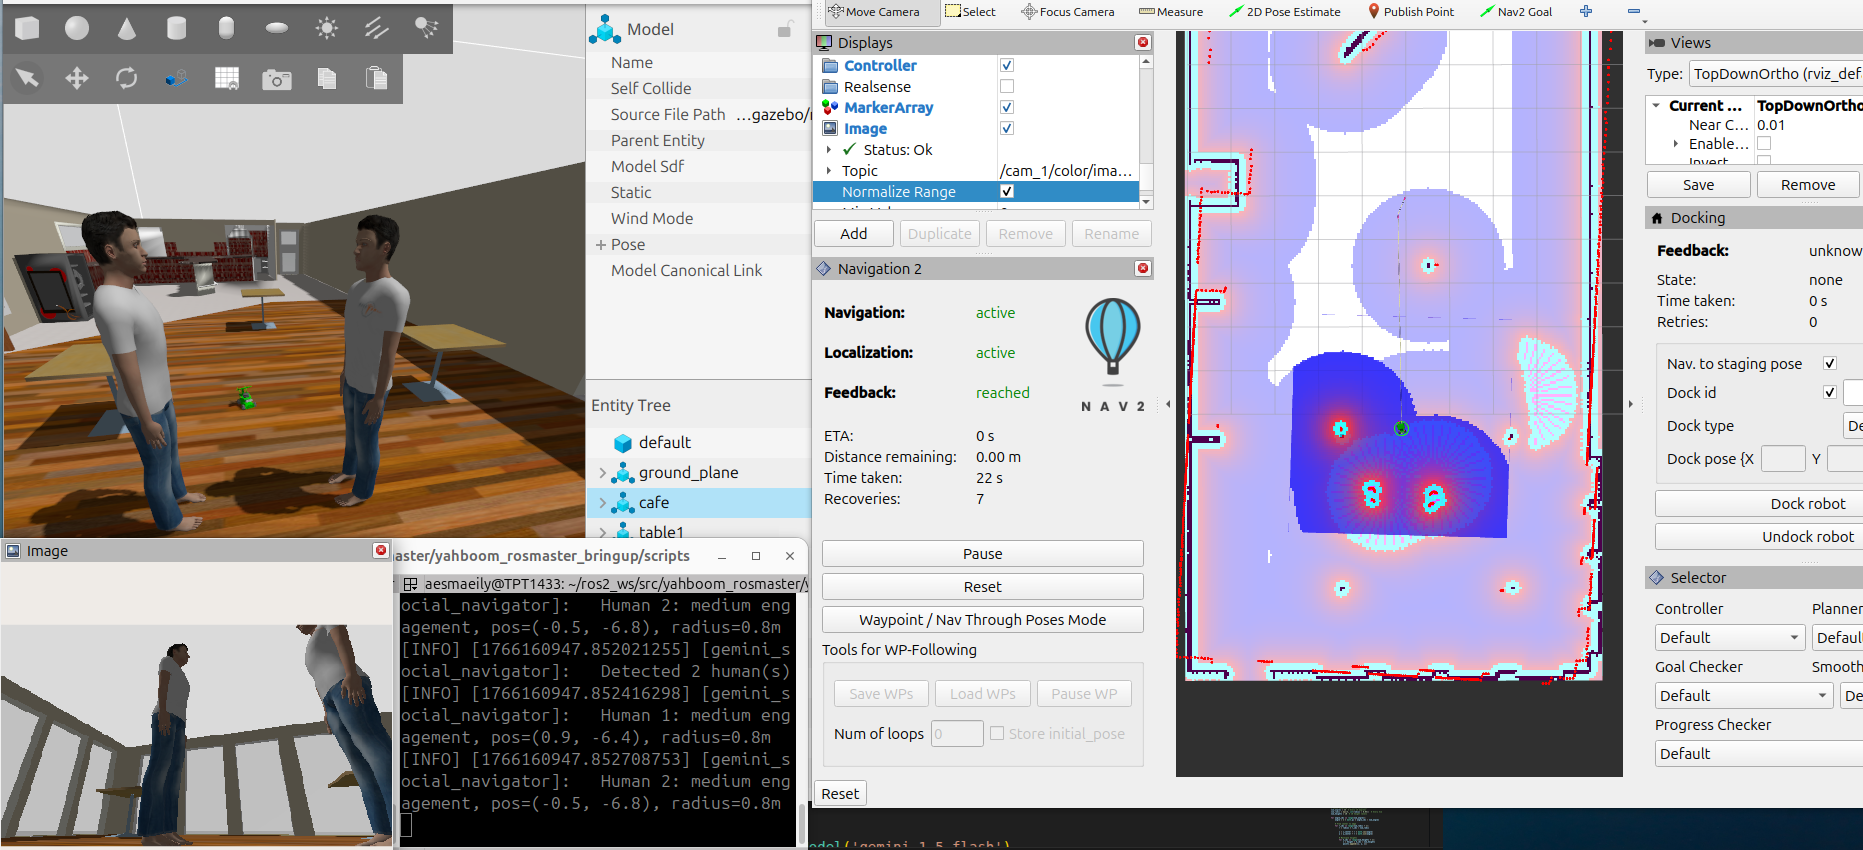
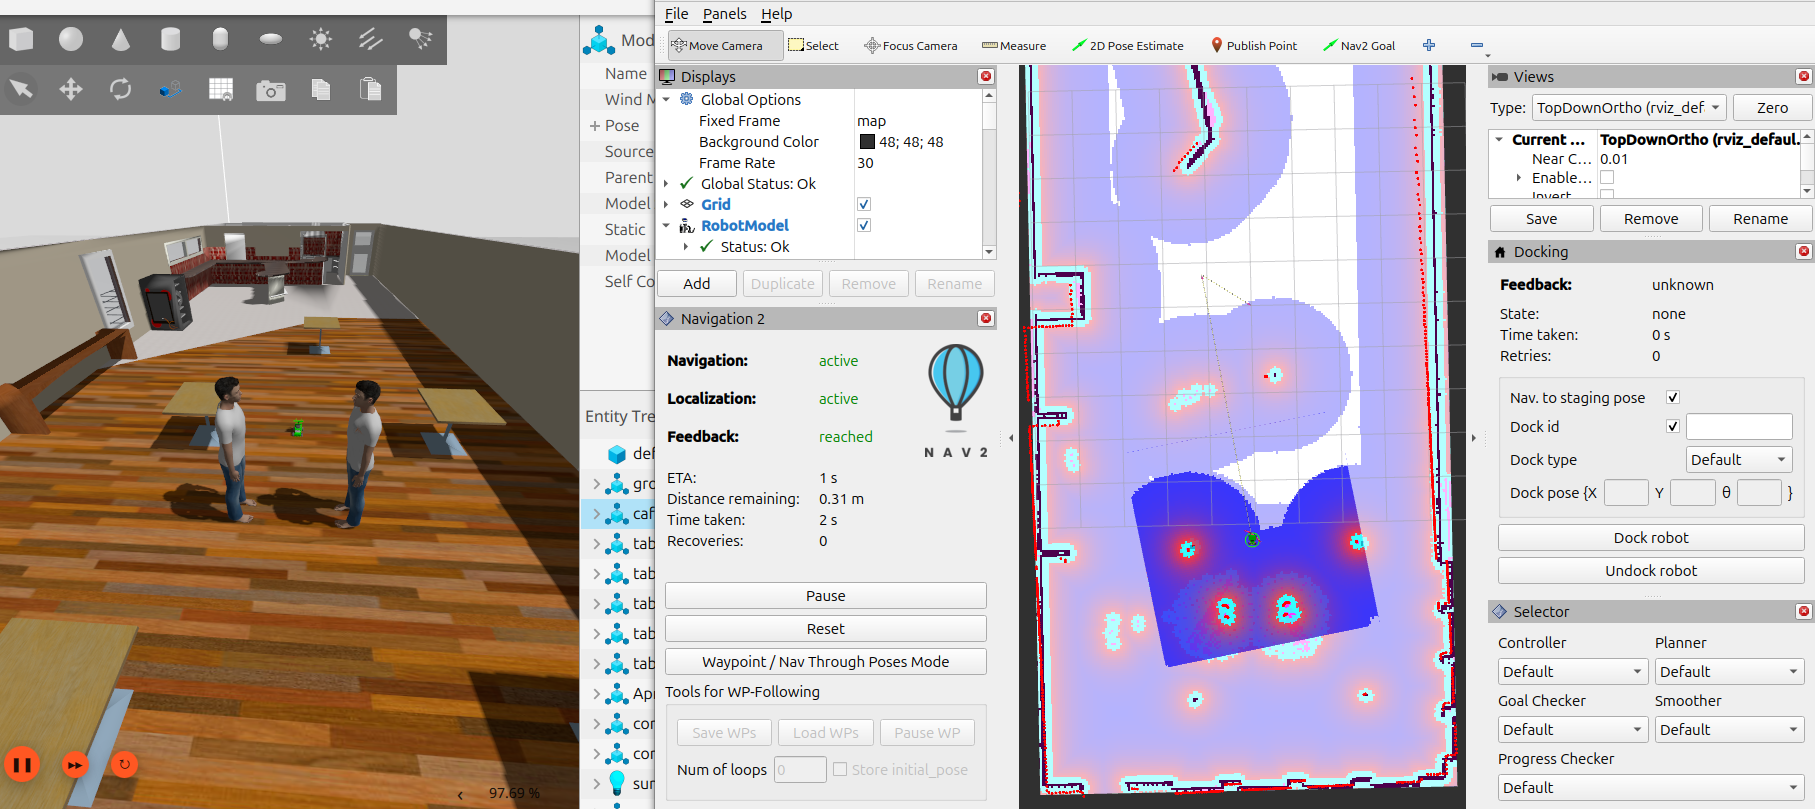
Modified ReadME file and adde image

diff --git a/README.md b/README.md
@@ -1,10 +1,11 @@
 # Yahboom ROSMASTER X3 - Social Navigation Platform
-
+---
 ![OS](https://img.shields.io/ubuntu/v/ubuntu-wallpapers/noble)
 ![ROS_2](https://img.shields.io/ros/v/jazzy/rclcpp)
 ![Gemini](https://img.shields.io/badge/Gemini-AI%20Powered-blue)
 ![Nav2](https://img.shields.io/badge/Nav2-Social%20Navigation-green)
 ![Algorithm](https://img.shields.io/badge/Algorithm-Hybrid%20Tracker-purple)
+![Alt text](image.png)
 
 ---
 
